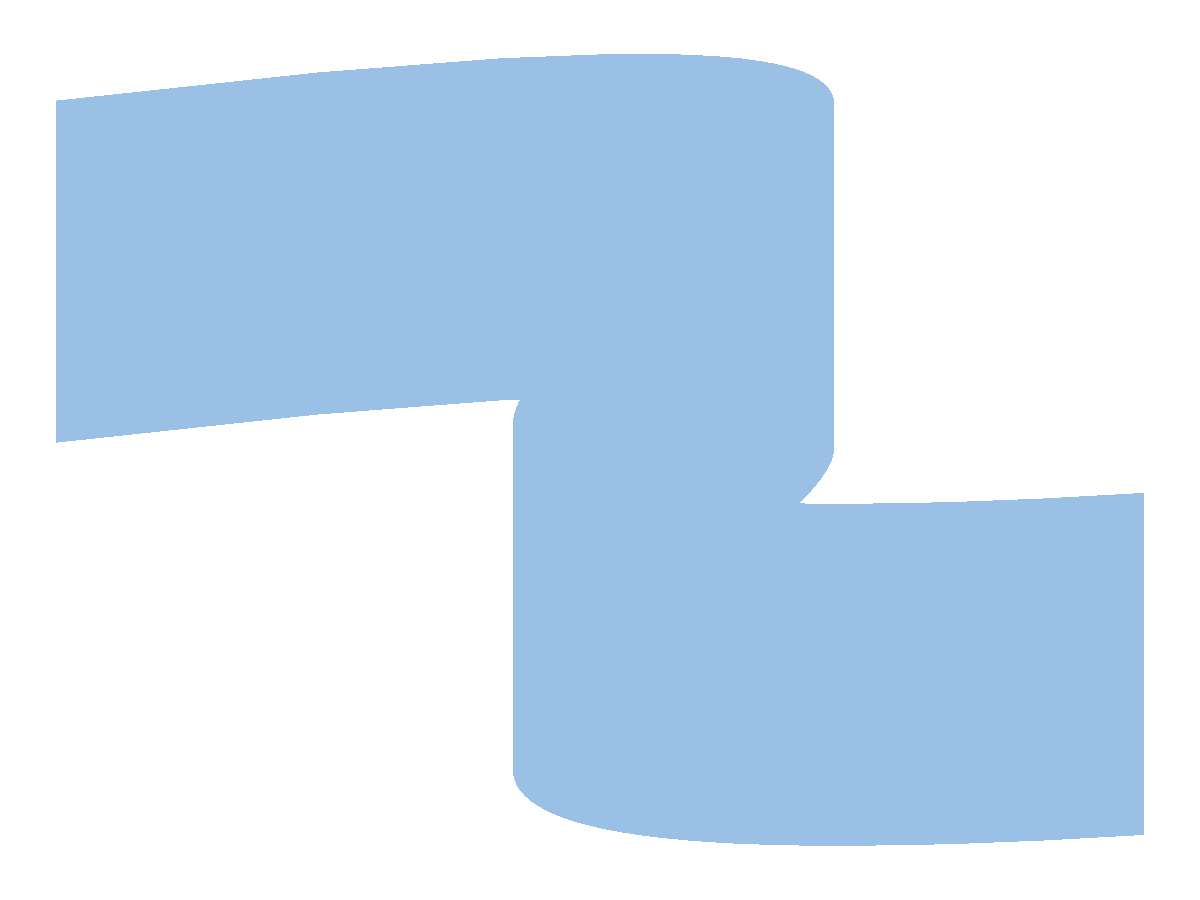
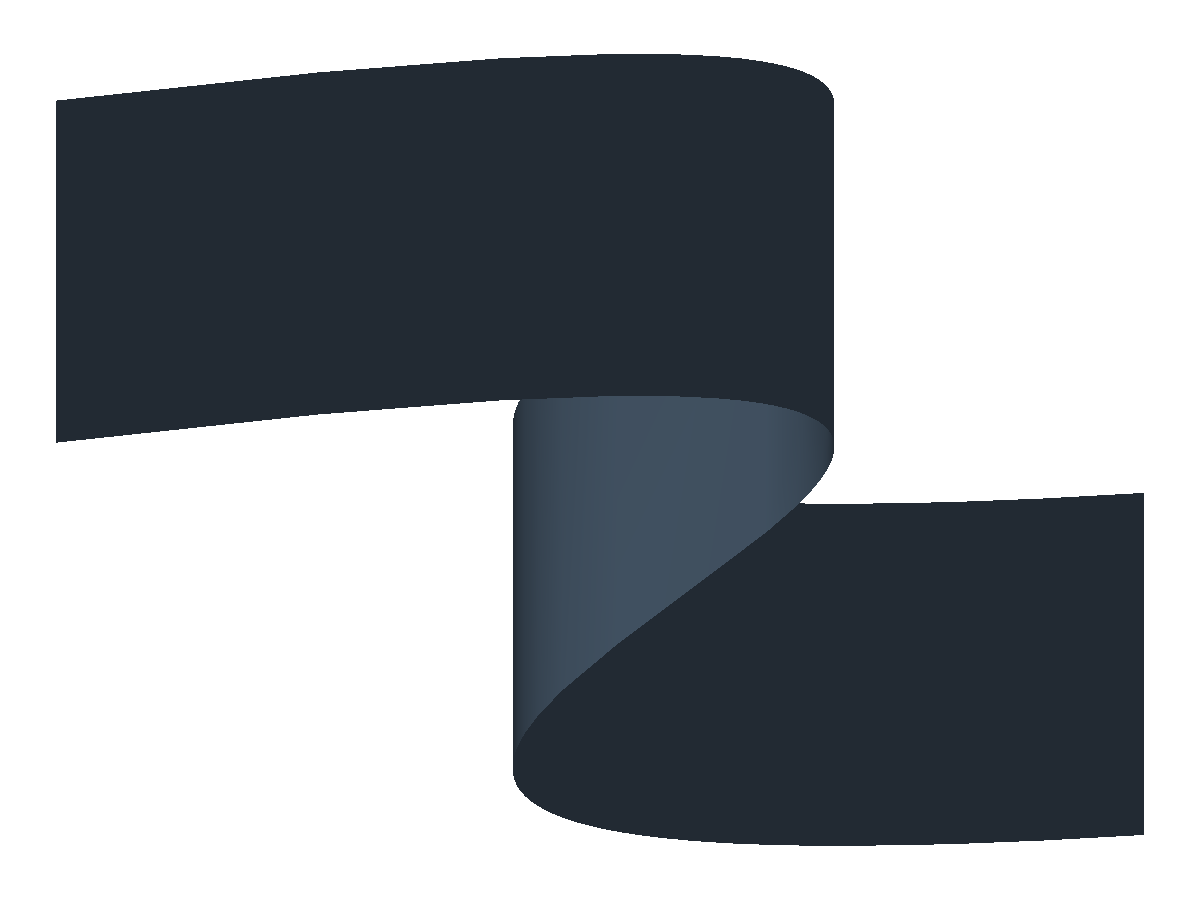
Restore extrude surface readability

diff --git a/src/viewer/isometric_renderer.ts b/src/viewer/isometric_renderer.ts
@@ -15,6 +15,8 @@ export type IsoRenderOptions = {
   lightDir?: Vec3;
   ambient?: number;
   diffuse?: number;
+  specular?: number;
+  shininess?: number;
   wireframe?: boolean;
   wireColor?: Vec3;
   wireDepthTest?: boolean;
@@ -37,6 +39,11 @@ type SmoothShade = {
   baseB: number;
   ambient: number;
   diffuse: number;
+  specular: number;
+  shininess: number;
+  halfX: number;
+  halfY: number;
+  halfZ: number;
   lightX: number;
   lightY: number;
   lightZ: number;
@@ -122,6 +129,8 @@ export function renderIsometricPngLayers(
   const backgroundAlpha = clamp(opts.backgroundAlpha ?? 0, 0, 1);
   const ambient = clamp(opts.ambient ?? 0.35, 0, 1);
   const diffuse = clamp(opts.diffuse ?? 0.65, 0, 1);
+  const specular = clamp(opts.specular ?? 0, 0, 1);
+  const shininess = Math.max(1, opts.shininess ?? 24);
 
   const viewDir = normalize(opts.viewDir ?? [1, 1, -1]);
   const worldUp: Vec3 = [0, 0, 1];
@@ -205,6 +214,11 @@ export function renderIsometricPngLayers(
     dot(right, lightDirWorld),
     dot(up, lightDirWorld),
     dot(viewDir, lightDirWorld),
+  ]);
+  const halfDirView = normalize([
+    lightDirView[0],
+    lightDirView[1],
+    lightDirView[2] + 1,
   ]);
 
   const rgba = Buffer.alloc(width * height * 4);
@@ -378,6 +392,11 @@ export function renderIsometricPngLayers(
                 baseB,
                 ambient,
                 diffuse,
+                specular,
+                shininess,
+                halfX: halfDirView[0],
+                halfY: halfDirView[1],
+                halfZ: halfDirView[2],
                 lightX: lightDirView[0],
                 lightY: lightDirView[1],
                 lightZ: lightDirView[2],
@@ -545,6 +564,15 @@ function rasterizeTriangle(
             ny * smoothShade.lightY +
             nz * smoothShade.lightZ;
           intensity += smoothShade.diffuse * Math.max(0, dotNL);
+          if (smoothShade.specular > 0) {
+            const dotNH =
+              nx * smoothShade.halfX +
+              ny * smoothShade.halfY +
+              nz * smoothShade.halfZ;
+            intensity +=
+              smoothShade.specular *
+              Math.pow(Math.max(0, dotNH), smoothShade.shininess);
+          }
         }
         intensity = clamp(intensity, 0, 1);
         blendPixel(

diff --git a/src/tests/viewer_isometric.e2e.test.ts b/src/tests/viewer_isometric.e2e.test.ts
@@ -258,6 +258,50 @@ const tests = [
     },
   },
   {
+    name: "viewer isometric: optional specular highlight brightens smooth curved shading",
+    fn: async () => {
+      const lit = renderIsometricPng(makeGradientTriangleMesh(), {
+        width: 120,
+        height: 120,
+        padding: 12,
+        viewDir: [0, 0, 1],
+        lightDir: [0, 0, 1],
+        ambient: 0,
+        diffuse: 0,
+        specular: 1,
+        shininess: 8,
+        background: [255, 255, 255],
+        backgroundAlpha: 1,
+        baseColor: [180, 200, 220],
+        wireframe: false,
+      });
+      const unlit = renderIsometricPng(makeGradientTriangleMesh(), {
+        width: 120,
+        height: 120,
+        padding: 12,
+        viewDir: [0, 0, 1],
+        lightDir: [0, 0, 1],
+        ambient: 0,
+        diffuse: 0,
+        specular: 0,
+        background: [255, 255, 255],
+        backgroundAlpha: 1,
+        baseColor: [180, 200, 220],
+        wireframe: false,
+      });
+      const highlighted = readPngPixel(lit, 60, 74);
+      const flat = readPngPixel(unlit, 60, 74);
+      assert.ok(
+        highlighted[0] - flat[0] > 80,
+        "specular highlight should materially brighten the center sample"
+      );
+      assert.ok(
+        highlighted[1] - flat[1] > 80,
+        "specular highlight should materially brighten all color channels"
+      );
+    },
+  },
+  {
     name: "viewer isometric: coplanar transparent layers tint opaque geometry without dropping out",
     fn: async () => {
       const png = renderIsometricPngLayers(

diff --git a/src/examples/dsl_feature_examples.ts b/src/examples/dsl_feature_examples.ts
@@ -92,6 +92,8 @@ export type DslFeatureExample = {
       lightDir?: [number, number, number];
       ambient?: number;
       diffuse?: number;
+      specular?: number;
+      shininess?: number;
     };
     layers?: Array<{
       output: string;
@@ -240,8 +242,11 @@ export const dslFeatureExamples: DslFeatureExample[] = [
     render: {
       renderOpts: {
         viewDir: [1.55, -0.75, 0.85],
-        ambient: 1,
-        diffuse: 0,
+        lightDir: [0.9, -0.55, 0.35],
+        ambient: 0.22,
+        diffuse: 0.5,
+        specular: 0.45,
+        shininess: 28,
       },
       layers: [
         {
